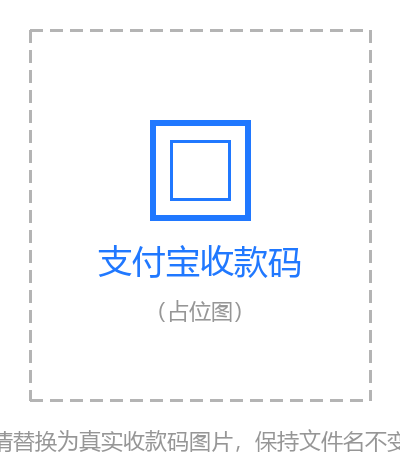
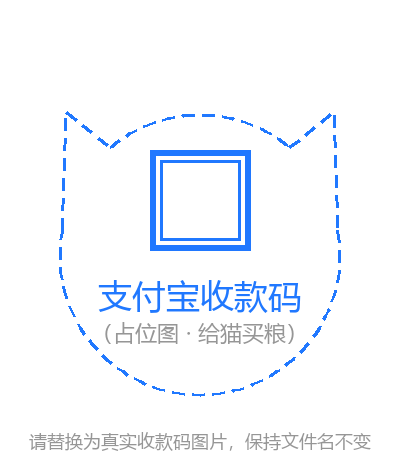
pages: 对外文案统一 Gitee 主仓库/GitHub 备仓库；下载按钮 Gitee 优先；赞助占位图换咖啡杯/猫头外框

diff --git a/copyright.html b/copyright.html
@@ -26,7 +26,7 @@
     <tr><td>包名</td><td><code>com.bill.hmd</code></td></tr>
     <tr><td>当前版本</td><td>2.4.1（versionCode 4029）</td></tr>
     <tr><td>首次发表日期</td><td>2026-08-22</td></tr>
-    <tr><td>开发者 / 版权所有</td><td>bill_zzx（GitHub：<a href="https://github.com/billmax99">billmax99</a> · Gitee：<a href="https://gitee.com/bill_zzx">bill_zzx</a>）</td></tr>
+    <tr><td>开发者 / 版权所有</td><td>bill_zzx（Gitee：<a href="https://gitee.com/bill_zzx">bill_zzx</a> · GitHub：<a href="https://github.com/billmax99">billmax99</a>）</td></tr>
   </table>
 
   <h2>版权归属声明</h2>
@@ -38,30 +38,30 @@
 
   <h2>开源仓库</h2>
   <ul>
-    <li>GitHub（主仓库）：<a href="https://github.com/billmax99/mdp">github.com/billmax99/mdp</a></li>
-    <li>Gitee（镜像）：<a href="https://gitee.com/bill_zzx/mdp">gitee.com/bill_zzx/mdp</a></li>
+    <li>Gitee（主仓库）：<a href="https://gitee.com/bill_zzx/mdp">gitee.com/bill_zzx/mdp</a></li>
+    <li>GitHub（备仓库）：<a href="https://github.com/billmax99/mdp">github.com/billmax99/mdp</a></li>
   </ul>
 
   <h2>侵权投诉与联系</h2>
   <p>如发现侵犯本软件著作权的行为，或需获得超出 MIT 许可证范围的授权，
   请通过以下方式联系开发者：</p>
   <ul>
-    <li>GitHub：<a href="https://github.com/billmax99">github.com/billmax99</a></li>
     <li>Gitee：<a href="https://gitee.com/bill_zzx">gitee.com/bill_zzx</a></li>
+    <li>GitHub：<a href="https://github.com/billmax99">github.com/billmax99</a></li>
   </ul>
 
   <h2>平台核验</h2>
   <p>本页面所在站点（<a href="./">billmax99.github.io/mdp</a>）
-  为 MD+ 应用的官方发布页（源代码托管于 GitHub / Gitee 双仓库，
-  Gitee 端为镜像）。站点根目录备有
+  为 MD+ 应用的官方发布页（源代码托管于 Gitee / GitHub 双仓库，
+  Gitee 为主仓库、GitHub 为备仓库）。站点根目录备有
   <a href="910898de3ac00a36e91831f930eb43a1.md">版权核验验证文件</a>，
   供应用平台进行所有权核验。</p>
 </main>
 
 <footer class="site">
   MD+ v2.4.1 · © 2026 bill_zzx · <a href="LICENSE">MIT License</a><br>
-  <a href="https://github.com/billmax99/mdp">GitHub</a> ·
-  <a href="https://gitee.com/bill_zzx/mdp">Gitee</a>
+  <a href="https://gitee.com/bill_zzx/mdp">Gitee（主仓库）</a> ·
+  <a href="https://github.com/billmax99/mdp">GitHub（备仓库）</a>
 </footer>
 </body>
 </html>

diff --git a/agreement.html b/agreement.html
@@ -48,8 +48,8 @@
   <ul>
     <li>本应用的软件著作权归开发者所有。</li>
     <li>本应用源代码以 MIT 许可证开源，仓库地址：
-      <a href="https://github.com/billmax99/mdp">github.com/billmax99/mdp</a>
-      （Gitee 镜像：<a href="https://gitee.com/bill_zzx/mdp">gitee.com/bill_zzx/mdp</a>）。</li>
+      <a href="https://gitee.com/bill_zzx/mdp">gitee.com/bill_zzx/mdp</a>
+      （GitHub 备仓库：<a href="https://github.com/billmax99/mdp">github.com/billmax99/mdp</a>）。</li>
     <li>本应用使用了若干开源软件组件（详见<a href="license.html">《开源许可声明》</a>），其版权归
       各自权利人所有，并按其开源许可证条款使用。</li>
     <li>「MD+」名称及本应用界面设计未经许可不得复制或用于其他产品。</li>
@@ -74,14 +74,14 @@
   <p>本协议受中华人民共和国法律管辖。因本协议引起的争议，双方应友好协商解决。</p>
 
   <h2>8. 联系方式</h2>
-  <p>开发者：bill_zzx（GitHub：<a href="https://github.com/billmax99">github.com/billmax99</a> ·
-  Gitee：<a href="https://gitee.com/bill_zzx">gitee.com/bill_zzx</a>）</p>
+  <p>开发者：bill_zzx（Gitee：<a href="https://gitee.com/bill_zzx">gitee.com/bill_zzx</a> ·
+  GitHub：<a href="https://github.com/billmax99">github.com/billmax99</a>）</p>
 </main>
 
 <footer class="site">
   MD+ v2.4.1 · © 2026 bill_zzx · <a href="LICENSE">MIT License</a><br>
-  <a href="https://github.com/billmax99/mdp">GitHub</a> ·
-  <a href="https://gitee.com/bill_zzx/mdp">Gitee</a>
+  <a href="https://gitee.com/bill_zzx/mdp">Gitee（主仓库）</a> ·
+  <a href="https://github.com/billmax99/mdp">GitHub（备仓库）</a>
 </footer>
 </body>
 </html>

diff --git a/index.html b/index.html
@@ -27,8 +27,8 @@
       <span class="badge">Android 7.0+</span>
     </div>
     <div class="btns">
-      <a class="btn primary" href="https://github.com/billmax99/mdp/releases">GitHub 下载</a>
-      <a class="btn ghost" href="https://gitee.com/bill_zzx/mdp/releases">Gitee 下载（镜像）</a>
+      <a class="btn primary" href="https://gitee.com/bill_zzx/mdp/releases">Gitee 下载（国内直连）</a>
+      <a class="btn ghost" href="https://github.com/billmax99/mdp/releases">GitHub 下载（备用）</a>
     </div>
     <p class="note">现代手机选 arm64 包（约 25 MB），任选全架构通用包亦可；首次安装正式版需先卸载旧调试版。</p>
   </section>
@@ -74,14 +74,14 @@
 
   <h2>源代码</h2>
   <p>本应用源代码以 <a href="LICENSE">MIT 许可证</a>开源：
-  <a href="https://github.com/billmax99/mdp">GitHub（主仓库）</a> ·
-  <a href="https://gitee.com/bill_zzx/mdp">Gitee（镜像）</a></p>
+  <a href="https://gitee.com/bill_zzx/mdp">Gitee（主仓库）</a> ·
+  <a href="https://github.com/billmax99/mdp">GitHub（备仓库）</a></p>
 </main>
 
 <footer class="site">
   MD+ v2.4.1 · © 2026 bill_zzx · <a href="LICENSE">MIT License</a><br>
-  <a href="https://github.com/billmax99/mdp">GitHub</a> ·
-  <a href="https://gitee.com/bill_zzx/mdp">Gitee</a>
+  <a href="https://gitee.com/bill_zzx/mdp">Gitee（主仓库）</a> ·
+  <a href="https://github.com/billmax99/mdp">GitHub（备仓库）</a>
 </footer>
 </body>
 </html>

diff --git a/license.html b/license.html
@@ -23,8 +23,8 @@
   <p>本应用源代码以 MIT 许可证开源（完整文本见 <a href="LICENSE">LICENSE</a>，
   Copyright (c) 2026 bill_zzx）：</p>
   <ul>
-    <li>GitHub：<a href="https://github.com/billmax99/mdp">github.com/billmax99/mdp</a></li>
-    <li>Gitee 镜像：<a href="https://gitee.com/bill_zzx/mdp">gitee.com/bill_zzx/mdp</a></li>
+    <li>Gitee（主仓库）：<a href="https://gitee.com/bill_zzx/mdp">gitee.com/bill_zzx/mdp</a></li>
+    <li>GitHub（备仓库）：<a href="https://github.com/billmax99/mdp">github.com/billmax99/mdp</a></li>
   </ul>
 
   <h2>第三方开源组件</h2>
@@ -57,7 +57,7 @@
   许可报告，可在项目根目录运行 <code>flutter pub deps</code> 获取依赖清单后
   逐一核对 pub.dev 许可证页面。</p>
   <p>如认为本声明有任何遗漏或错误，请联系开发者：bill_zzx
-  （GitHub：billmax99 / Gitee：bill_zzx）。</p>
+  （Gitee：bill_zzx / GitHub：billmax99）。</p>
 
   <h2>MIT License（本应用源代码）</h2>
   <div class="card" style="font-size:14px">
@@ -87,8 +87,8 @@ SOFTWARE.</pre>
 
 <footer class="site">
   MD+ v2.4.1 · © 2026 bill_zzx · <a href="LICENSE">MIT License</a><br>
-  <a href="https://github.com/billmax99/mdp">GitHub</a> ·
-  <a href="https://gitee.com/bill_zzx/mdp">Gitee</a>
+  <a href="https://gitee.com/bill_zzx/mdp">Gitee（主仓库）</a> ·
+  <a href="https://github.com/billmax99/mdp">GitHub（备仓库）</a>
 </footer>
 </body>
 </html>

diff --git a/privacy.html b/privacy.html
@@ -60,8 +60,8 @@
   <h2>七、联系方式</h2>
   <p>如您对本政策有任何疑问，请联系开发者：</p>
   <ul>
-    <li>GitHub：<a href="https://github.com/billmax99">github.com/billmax99</a></li>
     <li>Gitee：<a href="https://gitee.com/bill_zzx">gitee.com/bill_zzx</a></li>
+    <li>GitHub：<a href="https://github.com/billmax99">github.com/billmax99</a></li>
     <li>官方发布页：<a href="./">billmax99.github.io/mdp</a></li>
   </ul>
 
@@ -70,8 +70,8 @@
 
 <footer class="site">
   MD+ v2.4.1 · © 2026 bill_zzx · <a href="LICENSE">MIT License</a><br>
-  <a href="https://github.com/billmax99/mdp">GitHub</a> ·
-  <a href="https://gitee.com/bill_zzx/mdp">Gitee</a>
+  <a href="https://gitee.com/bill_zzx/mdp">Gitee（主仓库）</a> ·
+  <a href="https://github.com/billmax99/mdp">GitHub（备仓库）</a>
 </footer>
 </body>
 </html>

diff --git a/permissions.html b/permissions.html
@@ -53,8 +53,8 @@
 
 <footer class="site">
   MD+ v2.4.1 · © 2026 bill_zzx · <a href="LICENSE">MIT License</a><br>
-  <a href="https://github.com/billmax99/mdp">GitHub</a> ·
-  <a href="https://gitee.com/bill_zzx/mdp">Gitee</a>
+  <a href="https://gitee.com/bill_zzx/mdp">Gitee（主仓库）</a> ·
+  <a href="https://github.com/billmax99/mdp">GitHub（备仓库）</a>
 </footer>
 </body>
 </html>
